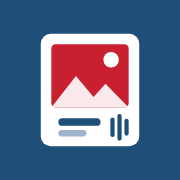
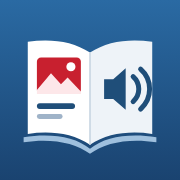
App heet Beeldwoordenboek bij installatie, nieuw icoon (open boek met foto en geluid)
Claude-Session: https://claude.ai/code/session_01GUQquoRJBpQiarfTpq683S

diff --git a/sw.js b/sw.js
@@ -1,5 +1,5 @@
-const CACHE = "bwb-20261014094731";
-const SHELL = ["./", "index.html", "manifest.webmanifest", "icons/icon-192.png", "icons/icon-512.png"];
+const CACHE = "bwb-20261015124828";
+const SHELL = ["./", "index.html", "manifest.webmanifest", "icons/icon-192.png", "icons/icon-512.png", "icons/icon-maskable-512.png"];
 self.addEventListener("install", (e) => { e.waitUntil(caches.open(CACHE).then((c) => c.addAll(SHELL)).then(() => self.skipWaiting())); });
 self.addEventListener("activate", (e) => { e.waitUntil(caches.keys().then((ks) => Promise.all(ks.filter((k) => k !== CACHE).map((k) => caches.delete(k)))).then(() => self.clients.claim())); });
 self.addEventListener("fetch", (e) => {

diff --git a/index.html b/index.html
@@ -9,7 +9,7 @@
 <link rel="icon" href="icons/icon-192.png">
 <link rel="apple-touch-icon" href="icons/apple-touch-icon.png">
 <meta name="apple-mobile-web-app-capable" content="yes">
-<meta name="apple-mobile-web-app-title" content="Woordenboek">
+<meta name="apple-mobile-web-app-title" content="Beeldwoordenboek">
 <style>:root{padding-top:env(safe-area-inset-top,0px);padding-bottom:env(safe-area-inset-bottom,0px)}body{margin:0}img{max-width:100%}[hidden]{display:none!important}</style>
 </head>
 <body>

diff --git a/tools/build_site.py b/tools/build_site.py
@@ -23,7 +23,7 @@ head = f"""<!doctype html>
 <link rel="icon" href="icons/icon-192.png">
 <link rel="apple-touch-icon" href="icons/apple-touch-icon.png">
 <meta name="apple-mobile-web-app-capable" content="yes">
-<meta name="apple-mobile-web-app-title" content="Woordenboek">
+<meta name="apple-mobile-web-app-title" content="Beeldwoordenboek">
 <style>:root{{padding-top:env(safe-area-inset-top,0px);padding-bottom:env(safe-area-inset-bottom,0px)}}body{{margin:0}}img{{max-width:100%}}[hidden]{{display:none!important}}</style>
 </head>
 <body>
@@ -32,7 +32,7 @@ head = f"""<!doctype html>
 
 manifest = {
     "name": "Beeldwoordenboek",
-    "short_name": "Woordenboek",
+    "short_name": "Beeldwoordenboek",
     "description": "Foto's en pictogrammen met het Nederlandse woord en de uitspraak.",
     "lang": "nl",
     "start_url": "./",
@@ -43,13 +43,13 @@ manifest = {
     "icons": [
         {"src": "icons/icon-192.png", "sizes": "192x192", "type": "image/png"},
         {"src": "icons/icon-512.png", "sizes": "512x512", "type": "image/png"},
-        {"src": "icons/icon-512.png", "sizes": "512x512", "type": "image/png", "purpose": "maskable"},
+        {"src": "icons/icon-maskable-512.png", "sizes": "512x512", "type": "image/png", "purpose": "maskable"},
     ],
 }
 (out / "manifest.webmanifest").write_text(json.dumps(manifest, indent=2, ensure_ascii=False), encoding="utf-8")
 
 sw = """const CACHE = "bwb-%s";
-const SHELL = ["./", "index.html", "manifest.webmanifest", "icons/icon-192.png", "icons/icon-512.png"];
+const SHELL = ["./", "index.html", "manifest.webmanifest", "icons/icon-192.png", "icons/icon-512.png", "icons/icon-maskable-512.png"];
 self.addEventListener("install", (e) => { e.waitUntil(caches.open(CACHE).then((c) => c.addAll(SHELL)).then(() => self.skipWaiting())); });
 self.addEventListener("activate", (e) => { e.waitUntil(caches.keys().then((ks) => Promise.all(ks.filter((k) => k !== CACHE).map((k) => caches.delete(k)))).then(() => self.clients.claim())); });
 self.addEventListener("fetch", (e) => {
